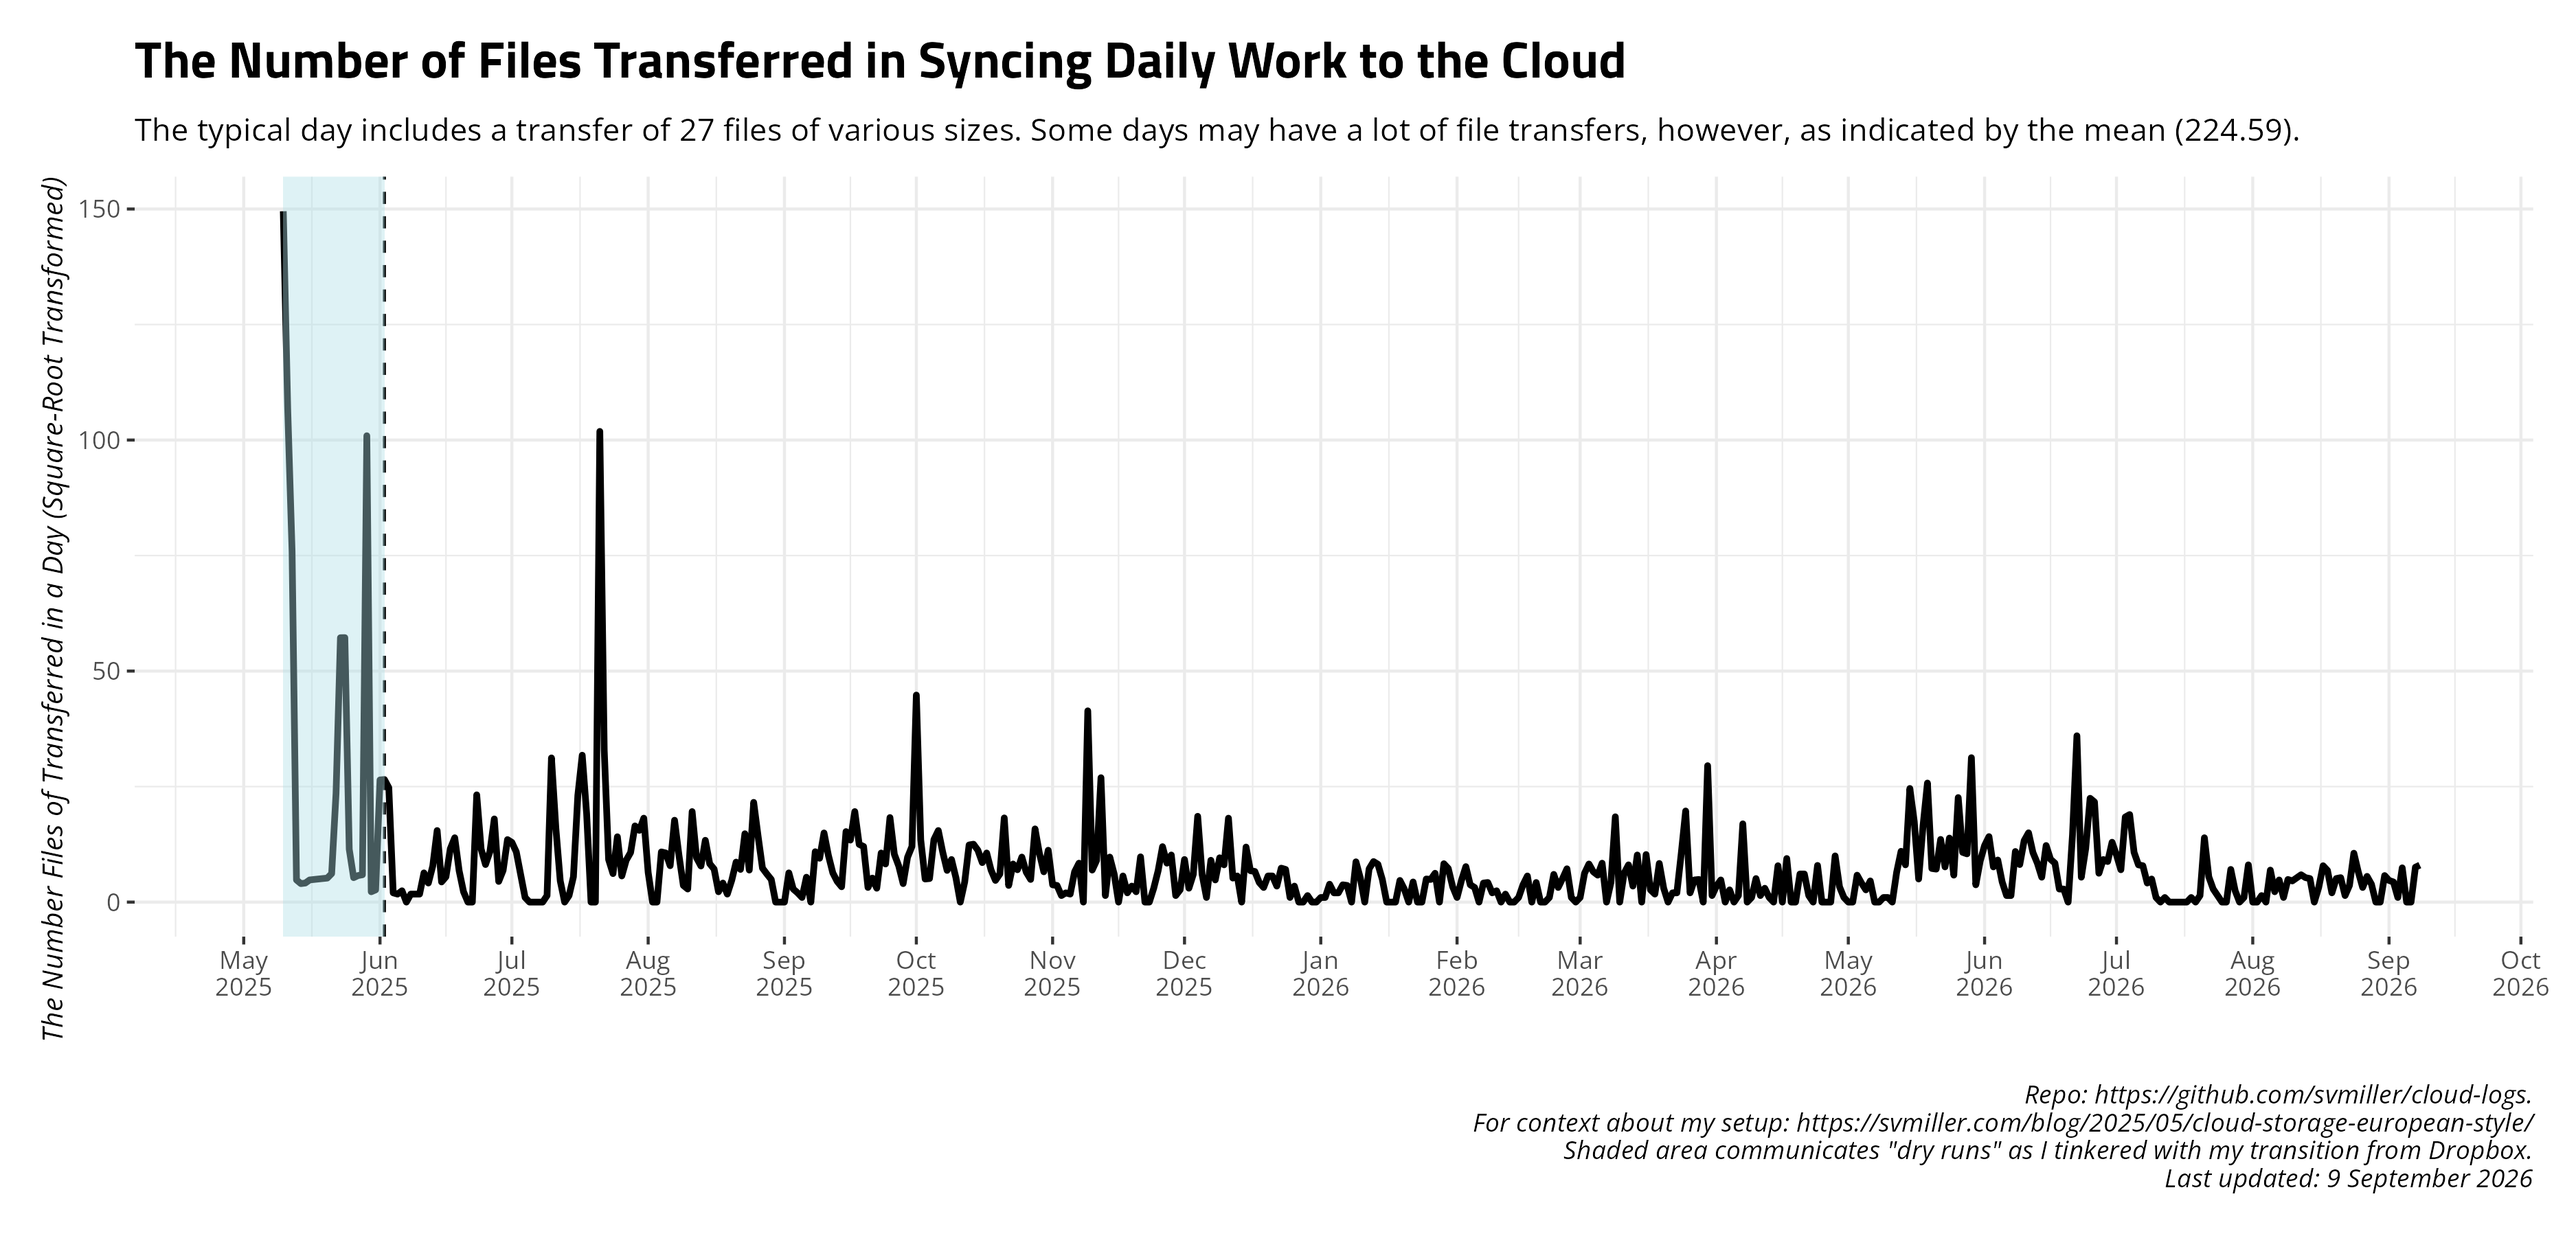
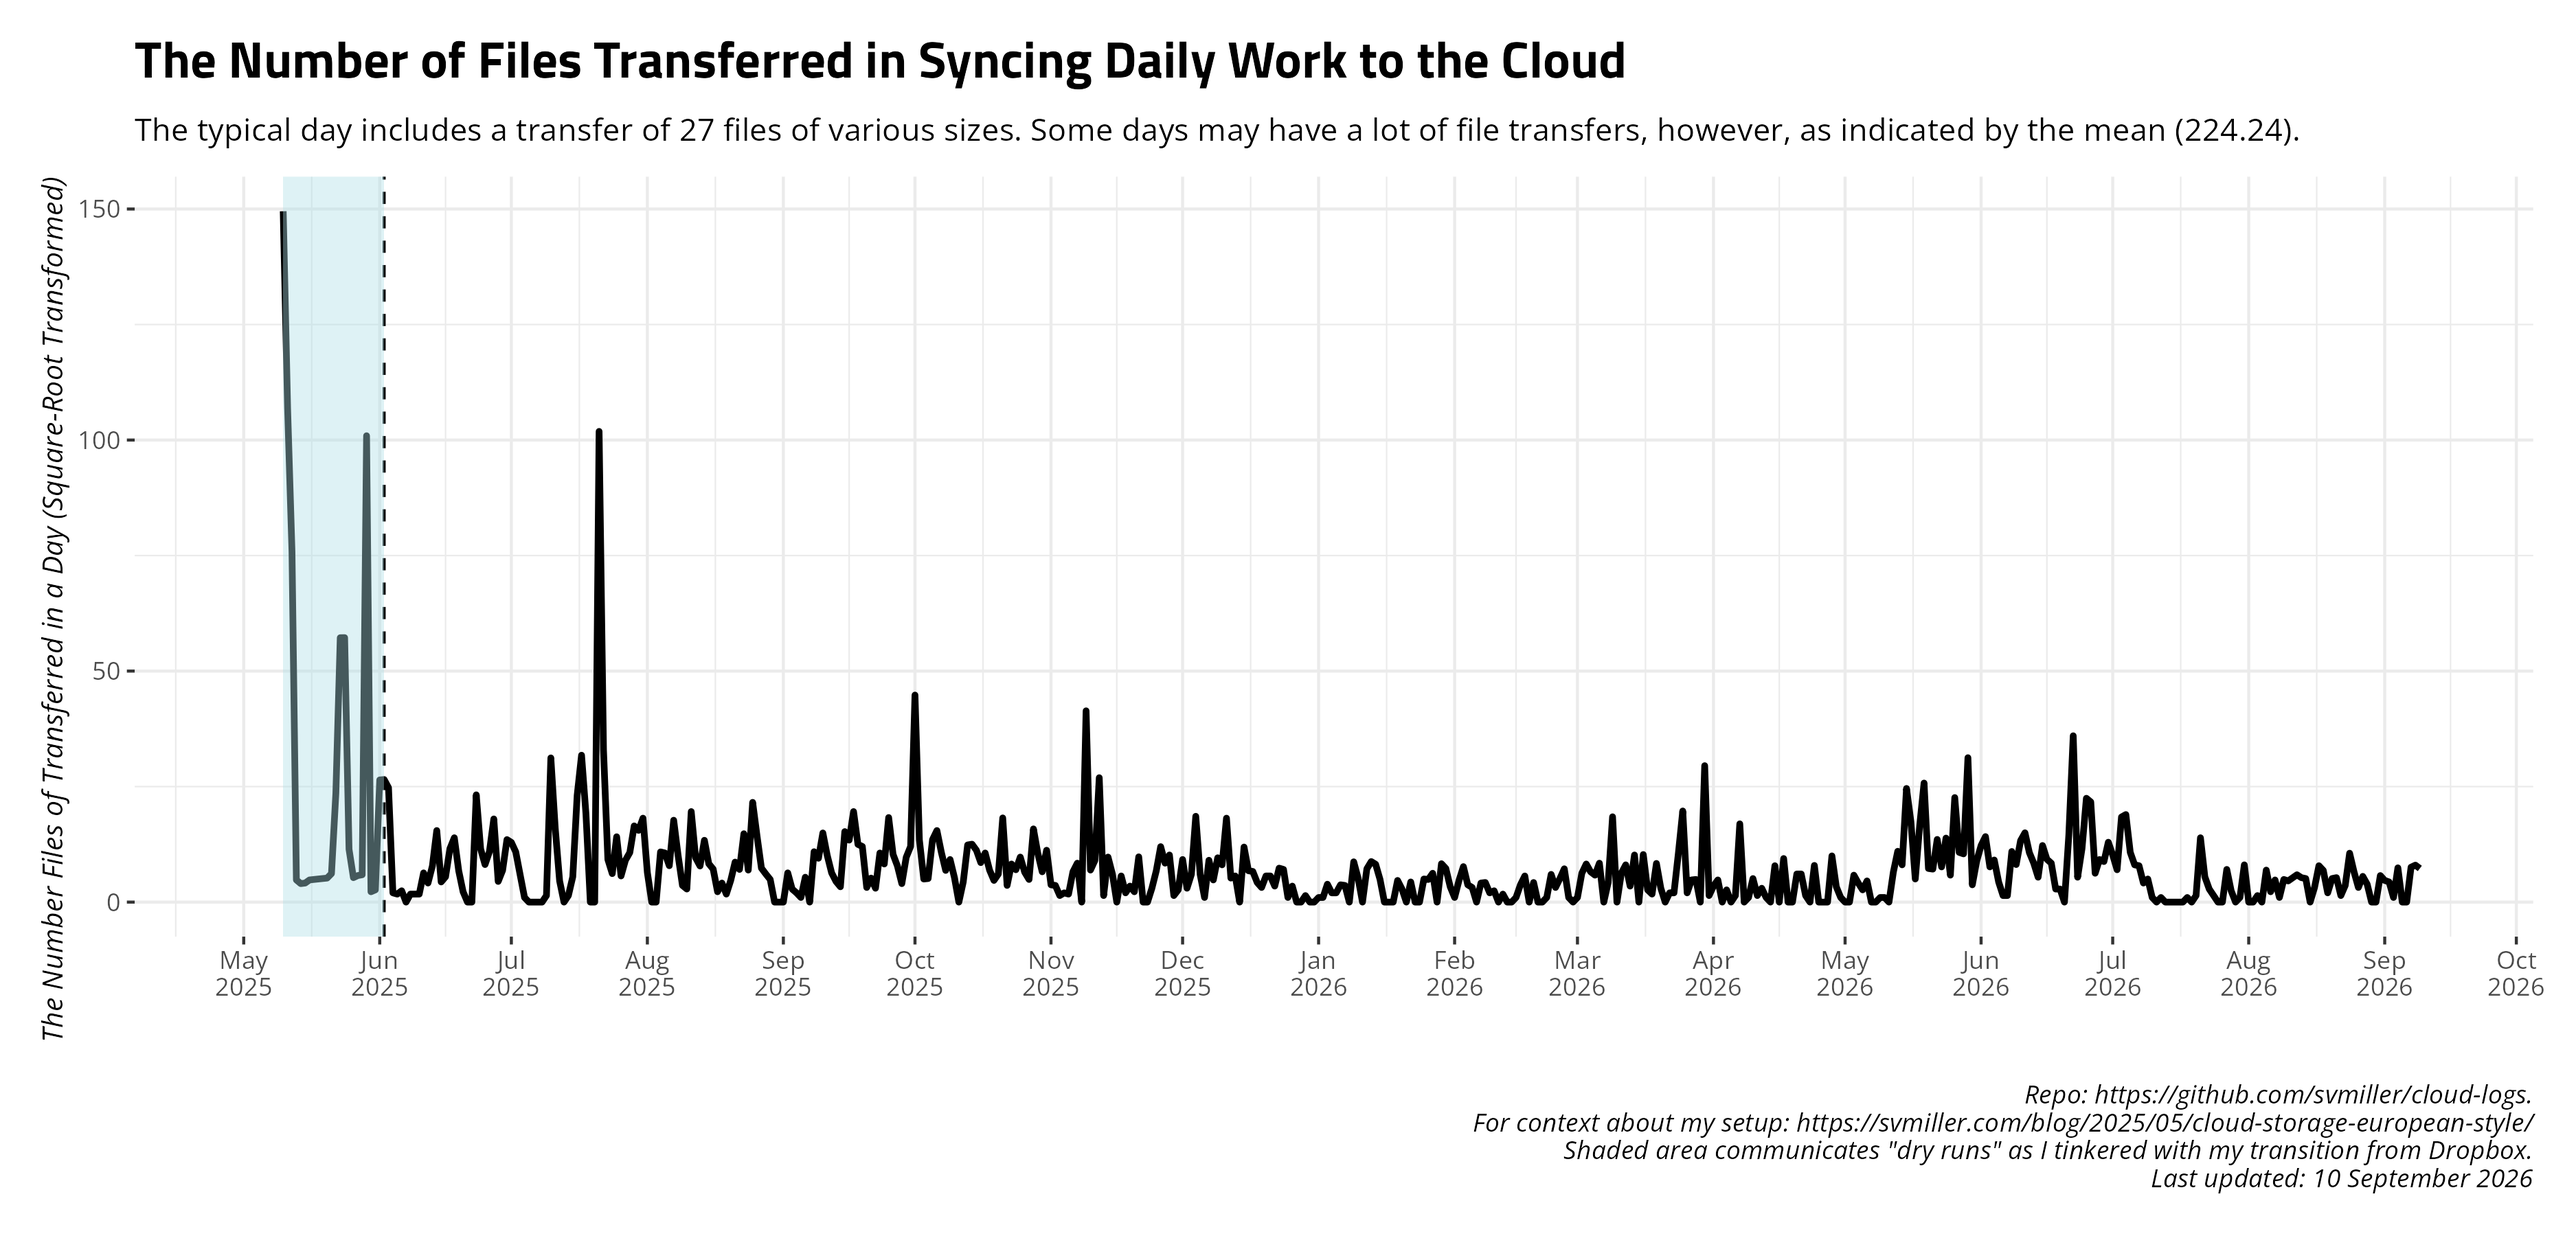
Date: 2026-09-10 09:00:34. Hi mom!

diff --git a/README.md b/README.md
@@ -27,17 +27,17 @@ and uploads to Github.
     #> # A tibble: 14 × 4
     #>    date       ftransfer stransfer   elapsed 
     #>    <date>         <dbl> <chr>       <chr>   
-    #>  1 2026-08-26        10 38.500 KiB  11m21.6s
-    #>  2 2026-08-27        31 697.618 KiB 29m59.2s
-    #>  3 2026-08-28        15 43.093 MiB  13m43.3s
-    #>  4 2026-08-29         0 <NA>        11m27.3s
-    #>  5 2026-08-30         0 <NA>        15m27.8s
-    #>  6 2026-08-31        33 171.129 KiB 27m17.9s
-    #>  7 2026-09-01        22 376.333 KiB 8m41.6s 
-    #>  8 2026-09-02        19 56.660 MiB  21m24.9s
-    #>  9 2026-09-03         1 23.351 KiB  17m3.0s 
-    #> 10 2026-09-04        55 107.209 MiB 5m12.1s 
-    #> 11 2026-09-05         0 <NA>        8m2.0s  
-    #> 12 2026-09-06         0 <NA>        10m58.2s
-    #> 13 2026-09-07        57 153.312 KiB 12m38.3s
-    #> 14 2026-09-08        64 11.991 MiB  19m39.1s
+    #>  1 2026-08-27        31 697.618 KiB 29m59.2s
+    #>  2 2026-08-28        15 43.093 MiB  13m43.3s
+    #>  3 2026-08-29         0 <NA>        11m27.3s
+    #>  4 2026-08-30         0 <NA>        15m27.8s
+    #>  5 2026-08-31        33 171.129 KiB 27m17.9s
+    #>  6 2026-09-01        22 376.333 KiB 8m41.6s 
+    #>  7 2026-09-02        19 56.660 MiB  21m24.9s
+    #>  8 2026-09-03         1 23.351 KiB  17m3.0s 
+    #>  9 2026-09-04        55 107.209 MiB 5m12.1s 
+    #> 10 2026-09-05         0 <NA>        8m2.0s  
+    #> 11 2026-09-06         0 <NA>        10m58.2s
+    #> 12 2026-09-07        57 153.312 KiB 12m38.3s
+    #> 13 2026-09-08        64 11.991 MiB  19m39.1s
+    #> 14 2026-09-09        53 2.356 MiB   33m50.6s
